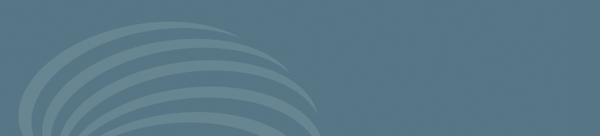
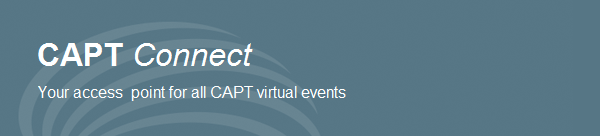
#11717829 - Mail problems.

Changed region(s): [[0.06, 0.2941, 0.42, 0.5], [0.06, 0.6176, 0.6, 0.7353]]

diff --git a/themes/capt/templates/mimemail-message--user.tpl.php b/themes/capt/templates/mimemail-message--user.tpl.php
@@ -19,8 +19,10 @@
  * @see template_preprocess_mimemail_message()
  */
 ?>
+<!-- mimemail-message__user.tpl.php -->
 <html>
   <head>
+    <title></title>
     <meta http-equiv="Content-Type" content="text/html; charset=utf-8" />
     <?php if ($css): ?>
     <style type="text/css">
@@ -36,7 +38,8 @@
 
         <table cellpadding="0" cellspacing="0" border="0" width="100%" class="[ics-class:value]">
           <tr>
-            <td background="http://dev.captconnect.edc.org/sites/captconnect.edc.org/themes/capt/images/mail/pattern.png" valign="top" bgcolor="#E3E3DF">
+            <td style='background:"http://dev.captconnect.edc.org/sites/captconnect.edc.org/themes/capt/images/mail/pattern.png"'
+              valign="top" bgcolor="#E3E3DF">
             <!--[if gte mso 9]>
             <v:rect xmlns:v="urn:schemas-microsoft-com:vml" fill="true" stroke="false" style="mso-width-percent:1000;">
               <v:fill type="tile" src="http://dev.captconnect.edc.org/sites/captconnect.edc.org/themes/capt/images/mail/pattern.png" color="#E3E3DF" />
@@ -50,11 +53,8 @@
 
                       <table class="logos center">
                         <tr>
-                          <td width="351" height="78" valign="bottom">
-                            <img src="http://dev.captconnect.edc.org/sites/captconnect.edc.org/themes/capt/images/mail/capt_logo.png" width="350" height="80" alt="CAPT - SAMHSA's Center for the Application of Prevention Technologies">
-                          </td>
-                          <td width="250" height="78" valign="bottom">
-                            <img src="http://dev.captconnect.edc.org/sites/captconnect.edc.org/themes/capt/images/mail/samhsa_logo.png" width="250" height="80" alt="SAMHSA - U.S. Substance Abuse and Mental Health Services Administration">
+                          <td width="580">
+                            <div style="font-size: 24px; margin-top: 20px; color: black;"><strong>CAPT</strong> <em style="font-weight: normal;">Connect</em></div>
                           </td>
                         </tr>
                       </table>
@@ -67,7 +67,8 @@
 
                       <table class="colorband">
                         <tr>
-                          <td background="http://dev.captconnect.edc.org/sites/captconnect.edc.org/themes/capt/images/mail/colorband.png" bgcolor="#E4E3E1" width="580" height="6" valign="top">
+                          <td style='background:"http://dev.captconnect.edc.org/sites/captconnect.edc.org/themes/capt/images/mail/colorband.png"'
+                            bgcolor="#E4E3E1" width="580" height="6" valign="top">
                           <!--[if gte mso 9]>
                           <v:rect xmlns:v="urn:schemas-microsoft-com:vml" fill="true" stroke="false" style="width:580px;height:6px;">
                             <v:fill type="tile" src="http://dev.captconnect.edc.org/sites/captconnect.edc.org/themes/capt/images/mail/colorband.png" color="#E4E3E1" />
@@ -88,30 +89,6 @@
 
                 </table>
 
-                <table class="banner center">
-                  <tr>
-                    <td background="http://dev.captconnect.edc.org/sites/captconnect.edc.org/themes/capt/images/mail/banner.png" bgcolor="#567583" width="600" height="134" valign="top">
-                    <!--[if gte mso 9]>
-                    <v:rect xmlns:v="urn:schemas-microsoft-com:vml" fill="true" stroke="false" style="width:600px;height:134px;">
-                      <v:fill type="tile" src="http://dev.captconnect.edc.org/sites/captconnect.edc.org/themes/capt/images/mail/banner.png" color="#567583" />
-                      <v:textbox inset="0,0,0,0">
-                    <![endif]-->
-                      <div>
-                        <div style="font-size: 36px; margin-top: 32px;">
-                          <strong>CAPT</strong> <em style="font-weight: normal;">Connect</em>
-                        </div>
-                        <div style="font-size: 15px; text-transform: uppercase;">
-                          Your access point for all CAPT virtual events
-                        </div>
-                      </div>
-                    <!--[if gte mso 9]>
-                      </v:textbox>
-                    </v:rect>
-                    <![endif]-->
-                    </td>
-                  </tr>
-                </table>
-
                 <table class="center">
                   <tr>
                     <td bgcolor="#FFFFFF">
@@ -130,7 +107,8 @@
 
                       <table class="colorband">
                         <tr>
-                          <td background="http://dev.captconnect.edc.org/sites/captconnect.edc.org/themes/capt/images/mail/colorband.png" bgcolor="#E4E3E1" width="580" height="6" valign="top">
+                          <td style='background:"http://dev.captconnect.edc.org/sites/captconnect.edc.org/themes/capt/images/mail/colorband.png"'
+                            bgcolor="#E4E3E1" width="580" height="6" valign="top">
                           <!--[if gte mso 9]>
                           <v:rect xmlns:v="urn:schemas-microsoft-com:vml" fill="true" stroke="false" style="width:580px;height:6px;">
                           <v:fill type="tile" src="http://dev.captconnect.edc.org/sites/captconnect.edc.org/themes/capt/images/mail/colorband.png" color="#E4E3E1" />
@@ -154,10 +132,10 @@
 
                       <table class="mailing center">
                         <tr>
-                          <td>
-                            <p>Mailing Address: SAMHSA's Center for the Application of Prevention Technologies<br>Education Development Center, Inc. | 43 Foundry Ave | Waltham, MA 02453-8313</p>
-                            <p><a href="http://dev.captconnect.edc.org">Terms</a> | <a href="http://dev.captconnect.edc.org">Privacy</a> | <a href="http://dev.captconnect.edc.org">Unsubscribe</a></p>
-                            <p id="date">[site:current-date]</p>
+                          <td width="580">
+                            <div style="text-align:left">
+                              <p>Contacts for Questions/Issues: Technical Problems (<a href="mbiewener@edc.org">Matt Biewener</a>), Content and Materials Approval (<a href="madler@edc.org">Melanie Adler</a>)</p>
+                            </div>
                           </td>
                         </tr>
                       </table>

diff --git a/themes/capt/templates/mimemail-message--workflow-notify.tpl.php b/themes/capt/templates/mimemail-message--workflow-notify.tpl.php
@@ -19,8 +19,10 @@
  * @see template_preprocess_mimemail_message()
  */
 ?>
+/* mimemail-message__workflow-notify.tpl.php */
 <html>
   <head>
+    <title></title>
     <meta http-equiv="Content-Type" content="text/html; charset=utf-8" />
     <?php if ($css): ?>
     <style type="text/css">
@@ -36,7 +38,8 @@
 
         <table cellpadding="0" cellspacing="0" border="0" width="100%" class="[ics-class:value]">
           <tr>
-            <td background="http://dev.captconnect.edc.org/sites/captconnect.edc.org/themes/capt/images/mail/pattern.png" valign="top" bgcolor="#E3E3DF">
+            <td style='background:"http://dev.captconnect.edc.org/sites/captconnect.edc.org/themes/capt/images/mail/pattern.png"'
+              valign="top" bgcolor="#E3E3DF">
             <!--[if gte mso 9]>
             <v:rect xmlns:v="urn:schemas-microsoft-com:vml" fill="true" stroke="false" style="mso-width-percent:1000;">
               <v:fill type="tile" src="http://dev.captconnect.edc.org/sites/captconnect.edc.org/themes/capt/images/mail/pattern.png" color="#E3E3DF" />
@@ -64,7 +67,8 @@
 
                       <table class="colorband">
                         <tr>
-                          <td background="http://dev.captconnect.edc.org/sites/captconnect.edc.org/themes/capt/images/mail/colorband.png" bgcolor="#E4E3E1" width="580" height="6" valign="top">
+                          <td style='background:"http://dev.captconnect.edc.org/sites/captconnect.edc.org/themes/capt/images/mail/colorband.png"' 
+                            bgcolor="#E4E3E1" width="580" height="6" valign="top">
                           <!--[if gte mso 9]>
                           <v:rect xmlns:v="urn:schemas-microsoft-com:vml" fill="true" stroke="false" style="width:580px;height:6px;">
                             <v:fill type="tile" src="http://dev.captconnect.edc.org/sites/captconnect.edc.org/themes/capt/images/mail/colorband.png" color="#E4E3E1" />
@@ -103,7 +107,8 @@
 
                       <table class="colorband">
                         <tr>
-                          <td background="http://dev.captconnect.edc.org/sites/captconnect.edc.org/themes/capt/images/mail/colorband.png" bgcolor="#E4E3E1" width="580" height="6" valign="top">
+                          <td style='background:"http://dev.captconnect.edc.org/sites/captconnect.edc.org/themes/capt/images/mail/colorband.png"'
+                            bgcolor="#E4E3E1" width="580" height="6" valign="top">
                           <!--[if gte mso 9]>
                           <v:rect xmlns:v="urn:schemas-microsoft-com:vml" fill="true" stroke="false" style="width:580px;height:6px;">
                           <v:fill type="tile" src="http://dev.captconnect.edc.org/sites/captconnect.edc.org/themes/capt/images/mail/colorband.png" color="#E4E3E1" />

diff --git a/themes/capt/templates/mimemail-message--registration-confirmation.tpl.php b/themes/capt/templates/mimemail-message--registration-confirmation.tpl.php
@@ -19,6 +19,7 @@
  * @see template_preprocess_mimemail_message()
  */
 ?>
+/* mimemail-message__registration-confirmation.tpl.php */
 <html>
   <head>
     <meta http-equiv="Content-Type" content="text/html; charset=utf-8" />

diff --git a/themes/capt/templates/mimemail-message.tpl.php b/themes/capt/templates/mimemail-message.tpl.php
@@ -19,6 +19,7 @@
  * @see template_preprocess_mimemail_message()
  */
 ?>
+/* mimemail-message.tpl.php */
 <html>
   <head>
     <meta http-equiv="Content-Type" content="text/html; charset=utf-8" />
